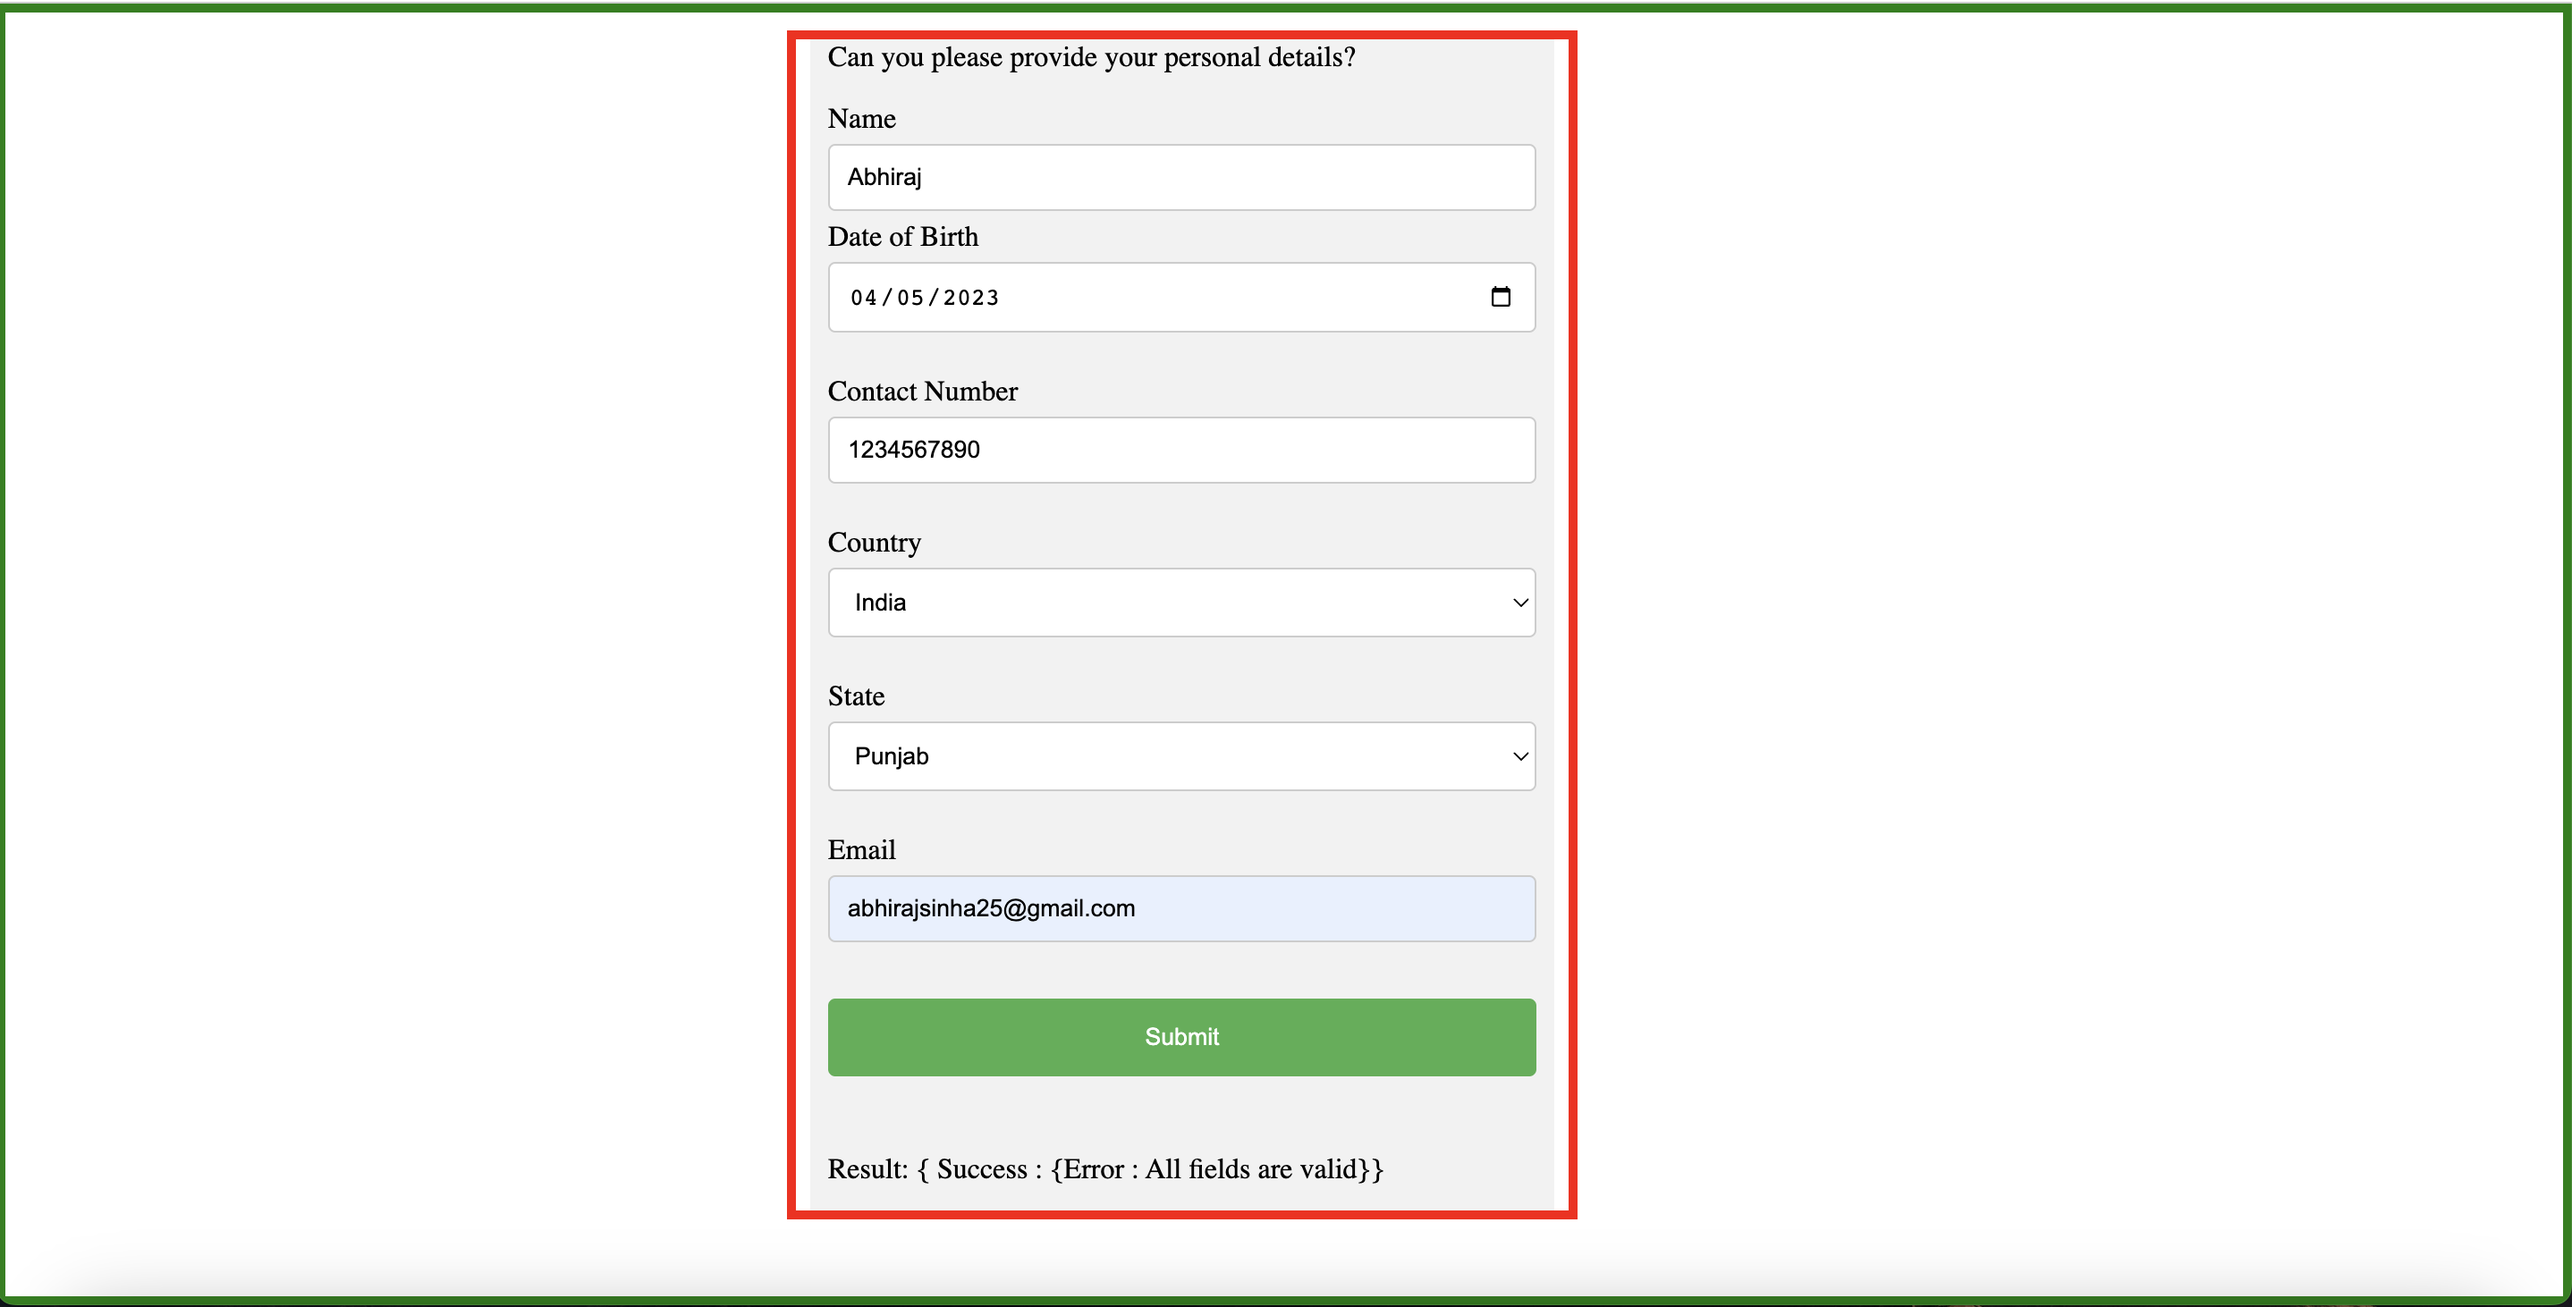
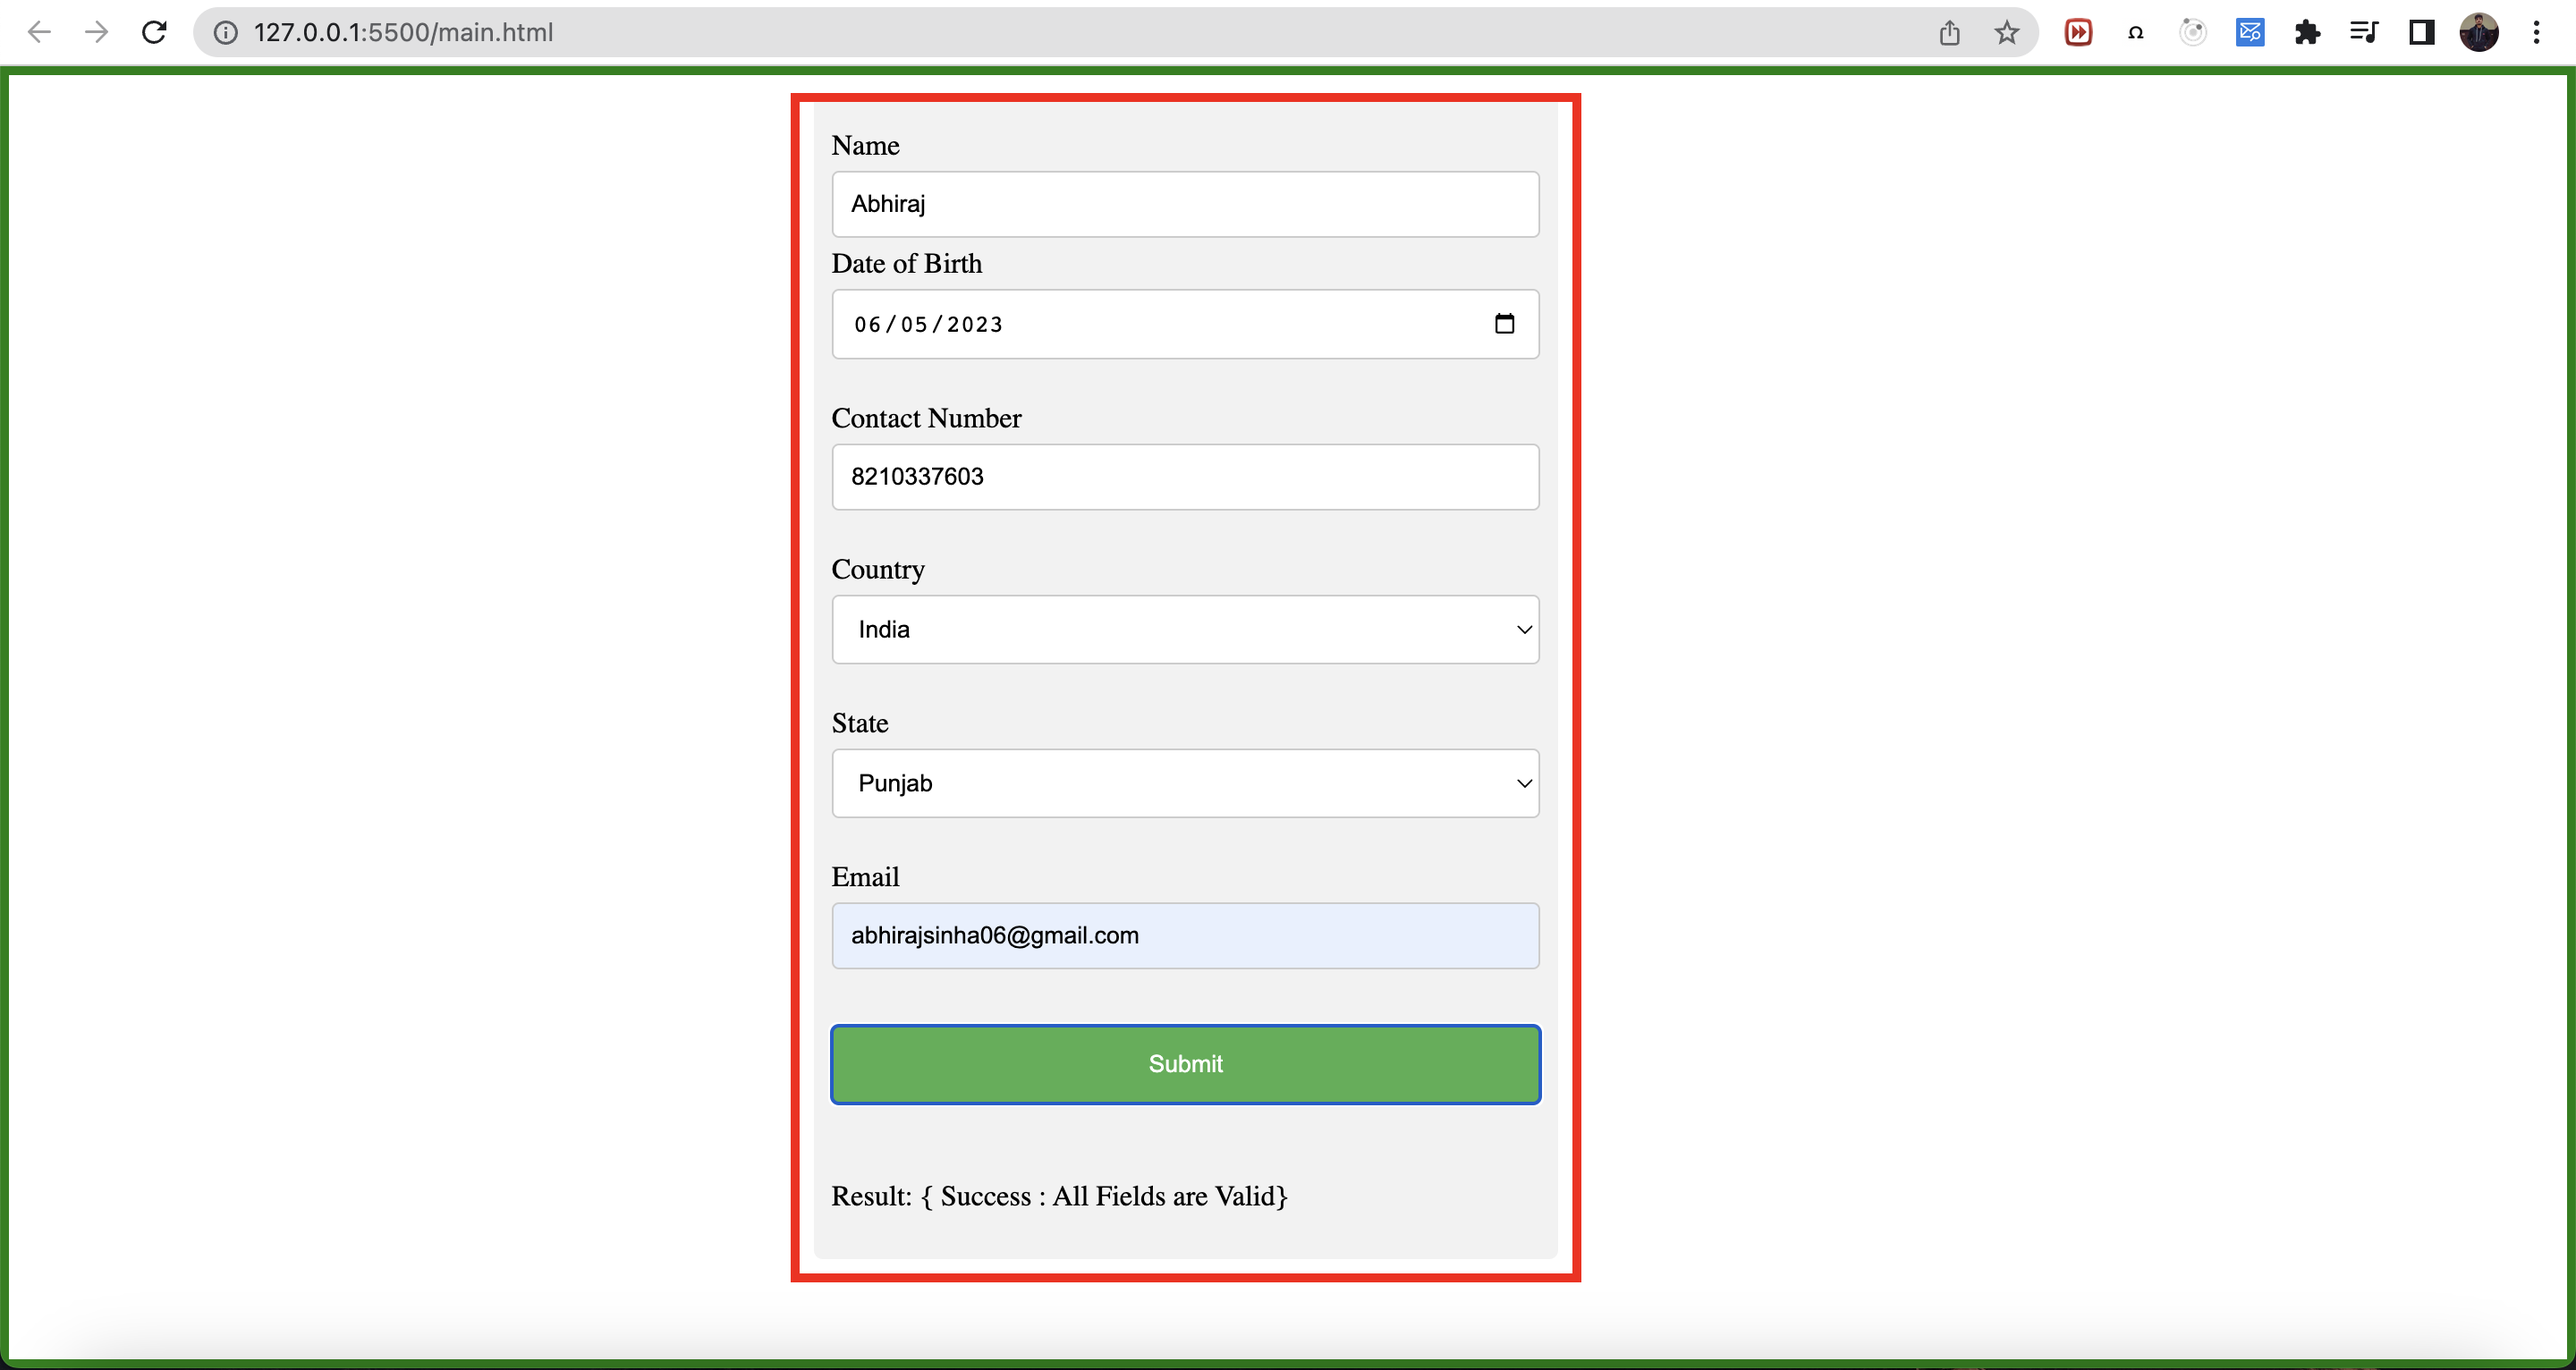
updated readme

diff --git a/script.js b/script.js
@@ -100,7 +100,19 @@ function validateForm() {
   } else if (email.value == "") {
     errorHandler("Email", "Please Enter Your Email");
   } else {
-    errorHandler("Success", "All fields are valid");
+    errObj = [];
+    errField = "Success";
+    message = "All Fields are Valid";
+    errObj.push({ errField, message });
+    suc.textContent =
+      "Result" +
+      ":" +
+      " { " +
+      errObj[0].errField +
+      " : " +
+      errObj[0].message +
+      "}";
+    suc.style.display = "block";
   }
   return true;
 }
